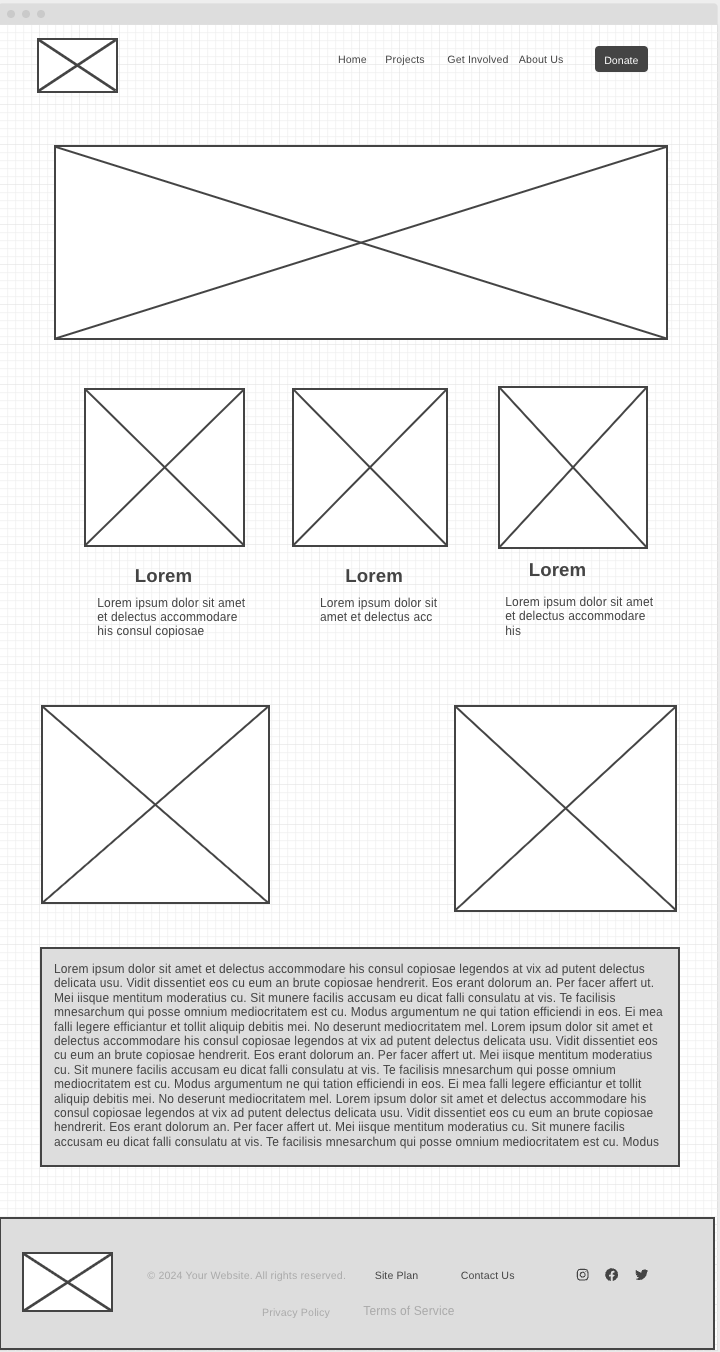
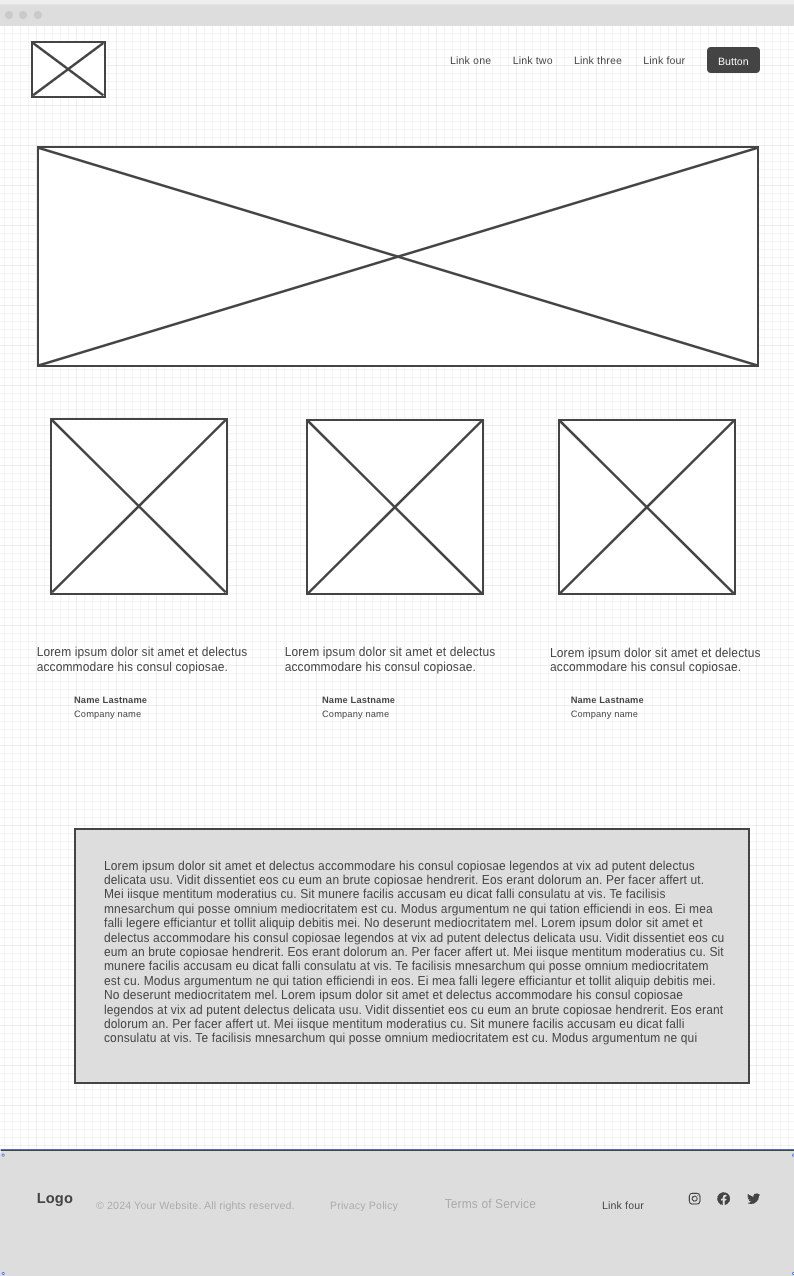
w3 schools

diff --git a/duala-F/about.html b/duala-F/about.html
@@ -19,6 +19,78 @@
                 <a href="contact.html" class="contact">Get Involved</a>
             </nav>
         </header>
+        <div id="hero">
+            <img src="images/about-us.jpg" alt="">
+        </div>
+        <main class="founders">
+            <section class="awo">
+                <div class="flip-box">
+                    <div class="flip-box-inner">
+                        <div class="flip-box-front">
+                            <img class="headshot" src="images/awo.jpg" alt="">
+                        </div>
+                        <div class="flip-box-back">
+                            <h3>Awo Otchere</h3>
+                            <h5>Founder</h5>
+                            <p>
+                                Awo Otcherenis the wife of the late Mr. Kwame Otchere, in whose honor the foundation is named. 
+                                As the founder, she provides the vision and strategic direction of the NGO, ensuring that its mission
+                                is carried out with love and legacy in mind.
+                            </p>
+                        </div>
+                    </div>
+                </div>
+                <h3>Awo Otchere(Founder)</h3>
+            </section>
+
+            <section class="kwame">
+                <div class="flip-box">
+                    <div class="flip-box-inner">
+                        <div class="flip-box-front">
+                            <img class="headshot" src="images/photo-for-duala-foundation.jpg" alt="Duala">
+                        </div>
+                        <div class="flip-box-back">
+                            <h3>Kwame Otchere (Duala)</h3>
+                            <h4></h4>
+                            <p>
+                                Although Mr. Kwame Owusu is no longer alive, his life’s work, values, and dedication to community upliftment inspire everything the foundation does. 
+                                The NGO proudly carries his name as a reminder of his legacy of service and compassion.
+                            </p>
+                        </div>
+                    </div>
+                </div>
+                <h3>Kwame Otchere (Duala)</h3>
+            </section>
+
+            <section class="esi">
+                <div class="flip-box">
+                    <div class="flip-box-inner">
+                        <div class="flip-box-front">
+                            <img class="headshot" src="images/about-pic.png" alt="">
+                        </div>
+                        <div class="flip-box-back">
+                            <h3>Esi Akotia</h3>
+                            <h4>Program Coordinator</h4>
+                            <p>
+                                Esi ensures the day-to-day implementation of educational and women empowerment programs. 
+                                she works directly with local schools, families, and loan recipients, and reports progress to the founder. 
+                                Her energy and passion for community development make him an essential part of the team.
+                            </p>
+                        </div>
+                    </div>
+                </div>
+                <h3>Esi Akotia</h3>
+            </section>
+            <div id="txt">
+                <p class="about-us">
+                    Our Mission To upscale members of small communities by channeling their passion and applying knowledge to solve problems around them with available resources, 
+                    and thereby improve their livelihoods. We also aim to mentor youth to redirect their education, skills, ideas, and enthusiasm back into their communities to enhance productivity and self-reliance. 
+                    Our Vision We envision a future where communities are uplifted and self-belief is restored. Our goal is to spark a mindset shift—one that is solution-oriented, empowering, and grounded in possibility. 
+                    Through inspiration, practical knowledge, and meaningful action, we help individuals combine potential with advanced skills to teach, reach, and achieve more. Who We Are The Duala Foundation is built on love for people and belief in the power of local action. 
+                    We serve as a bridge between passion and opportunity, helping ordinary people do extraordinary things in their own communities. Our strength lies in collaboration—with donors, partners, volunteers, and, most importantly, the people we serve.
+                </p>
+            </div>
+        </main>
         <footer>
             <a id="logo-link" href="index.html">
                 <img class="logo" src="images/dual_foundation-logo.png" alt="Duala Foundation Logo">
@@ -42,3 +114,7 @@
     </div>
 </body>
 </html>
+
+
+                
+

diff --git a/duala-F/about.css b/duala-F/about.css
@@ -2,6 +2,7 @@
 
 #content{
     margin: 0 auto;
+    max-width: 1600px;
 }
 
 .contact{
@@ -96,3 +97,106 @@ nav a:hover{
     background-color: #F4B400;
     color: #223570;
 }
+
+/* grid section(main) */
+#hero img{
+    width: 100%;
+}
+
+.founders{
+    display: grid;
+    grid-template-columns: repeat(10, 160px);
+    grid-template-rows: 160px 160px 160px 1fr;
+}
+
+.headshot{
+    width: 100%;
+    height: 280px;
+    border: 10px #223570 solid;
+    border-radius: 50px;
+}
+
+.awo{
+    grid-column: 2/4;
+    padding: 20px;
+}
+.kwame{
+    grid-column: 5/7;
+    padding: 20px;
+}
+.esi{
+    grid-column: 8/10;
+    padding: 20px;
+}
+
+#txt{
+    grid-row: 4/5;
+    grid-column: 2/10;
+    margin: 0 auto;  
+    box-sizing: border-box;
+}
+
+.about-us{
+    padding: 3rem;
+    max-width: 1600px;
+    font-size: 2em;
+    background-color: #2F70A1;
+    line-height: 40px;
+}
+
+.founders h3{
+    font-family: "Fredericka the Great", serif;
+    text-align: center;
+}
+
+
+
+
+
+.flip-box {
+    background-color: transparent;
+    width: 300px;
+    height: 280px;
+    border: 1px solid #f1f1f1;
+    border-radius: 50px;
+    perspective: 1000px;
+
+}
+
+.flip-box-inner {
+    position: relative;
+    width: 100%;
+    height: 100%;
+    text-align: center;
+    transition: transform 1.0s;
+    transform-style: preserve-3d;
+    border-radius: 50px;
+    }
+
+.flip-box:hover .flip-box-inner {
+transform: rotateY(180deg);
+}
+
+.flip-box-front, .flip-box-back {
+    position: absolute;
+    width: 100%;
+    height: 100%;
+    -webkit-backface-visibility: hidden;
+    backface-visibility: hidden;
+}
+
+.flip-box-front {
+    background-color: #555;
+    color: black;
+    border-radius: 50px;
+}
+
+.flip-box-back {
+    border-radius: 50px;
+    background-color: #555;
+    color: black;
+    padding: 10px;
+    transform: rotateY(180deg);
+}
+
+

diff --git a/duala-F/site-plan.css b/duala-F/site-plan.css
@@ -5,25 +5,25 @@ Fonts are separated by a | */
 
 :root {
 /* change the values below to your colors from your palette */
---primary-color: #223570   ;
---secondary-color: #F9FAFB ;
---accent1-color: #00AEEF;
---accent2-color: #F4B400;
+--primary-color:   #223570;   
+--secondary-color: #2F70A1;   
+--accent1-color:   #E5E7EB;  
+--accent2-color:   #F4B400;
 
 /* change the values below to your chosen font(s) */
 --heading-font: "Fredericka the Great";
---paragraph-font: "Fredoka", Helvetica, sans-serif;
+--paragraph-font: "Elsie Swash Caps", Helvetica, sans-serif;
 
 /* these colors below should be chosen from among your palette colors above */
 --headline-color-on-white: #223570;  /* headlines on a white background */ 
---headline-color-on-color: #F9FAFB; /* headlines on a colored background */ 
+--headline-color-on-color: #E5E7EB; /* headlines on a colored background */ 
 --paragraph-color-on-white: #223570; /* paragraph text on a white background */ 
---paragraph-color-on-color: white; /* paragraph text on a colored background */ 
---paragraph-background-color: #223570  ;
---nav-link-color: #223570;
---nav-background-color: #F4B400;
---nav-hover-link-color: #00AEEF;
---nav-hover-background-color: #223570;
+--paragraph-color-on-color: #E5E7EB; /* paragraph text on a colored background */ 
+--paragraph-background-color: #2F70A1 ;
+--nav-link-color: #E5E7EB;
+--nav-background-color: #223570;
+--nav-hover-link-color: #2F70A1;
+--nav-hover-background-color:  #F4B400;
 }
 
 

diff --git a/duala-F/index.css b/duala-F/index.css
@@ -2,6 +2,7 @@
 
 #content{
     margin: 0 auto;
+    max-width: 1600px;
 }
 
 .contact{
@@ -15,8 +16,8 @@
 }
 
 .contact:hover{
-    background-color: #00AEEF ;
-    color: #223570;
+    background-color: #2F70A1 ;
+    color: #E5E7EB;
 }
 
 header{
@@ -124,6 +125,7 @@ nav a:hover{
     text-align: center;
     color: black;
     font-size: 60px;
+    font-weight: bolder;
 }
 
 #hero-msg h1{
@@ -153,12 +155,11 @@ main{
 }
 
 .txt{
-    font-size: 35px;
+    font-size: 30px;
     padding: 50px;
     text-align: center;
-    color: #223570;
     grid-column: 2/7;
-    background-color: #00AEEF;
+    background-color: #2F70A1;
     line-height: 1.5em;
     margin: 20px;
     border-radius: 25px;

diff --git a/duala-F/site-plan.html b/duala-F/site-plan.html
@@ -61,7 +61,7 @@
             Heading Font: Fredericka the Great  <!-- change this -->
         </h4>
         <h4>
-            Paragraph Font: Fredoka  <!-- change this -->
+            Paragraph Font: Elsie Swash Caps  <!-- change this -->
         </h4>
         <h3>
             Normal paragraph example

diff --git a/duala-F/projects.css b/duala-F/projects.css
@@ -51,6 +51,7 @@ h1 {
 
 #content{
     margin: 0 auto;
+    max-width: 1600px;
 }
 
 .contact{
@@ -64,7 +65,7 @@ h1 {
 }
 
 .contact:hover{
-    background-color: #00AEEF ;
+    background-color: #2F70A1 ;
     color: #223570;
 }
 
